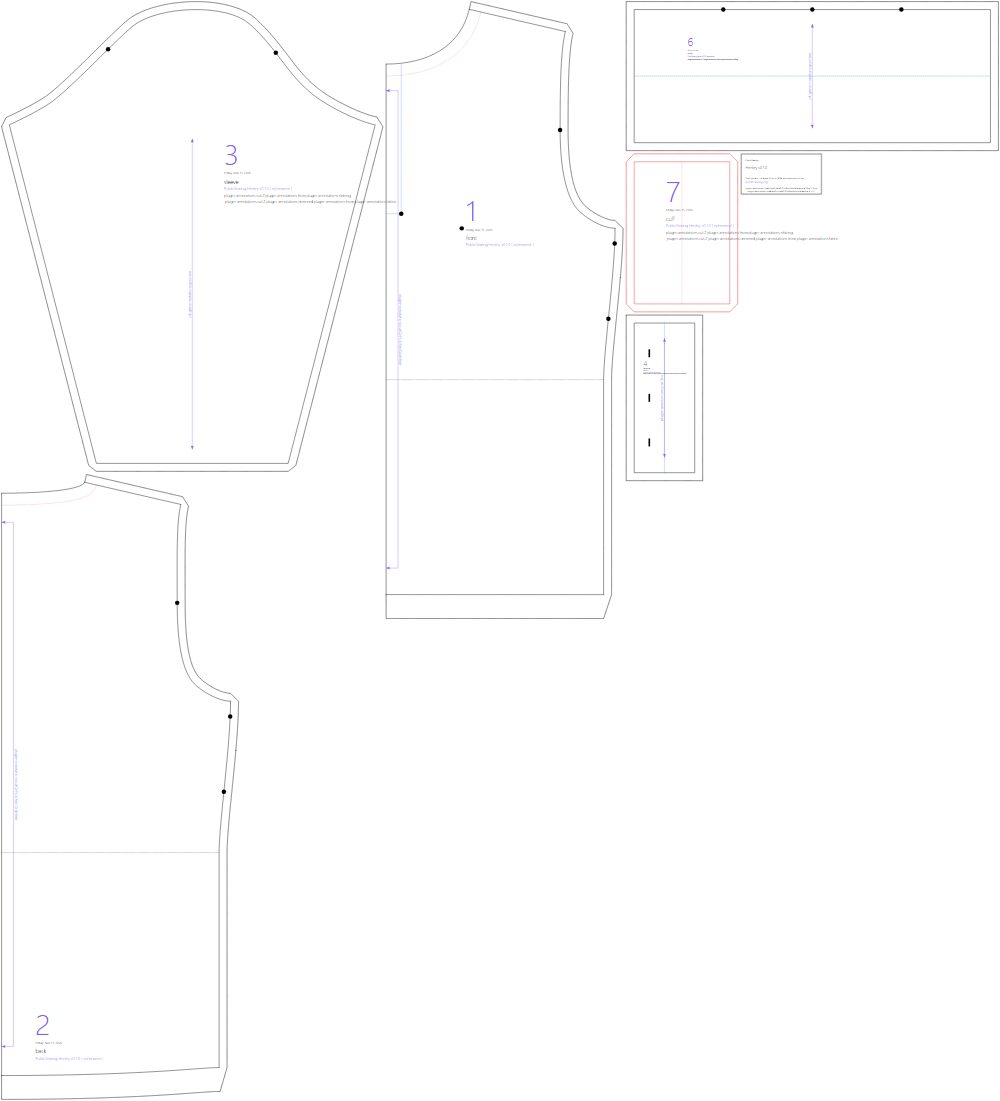
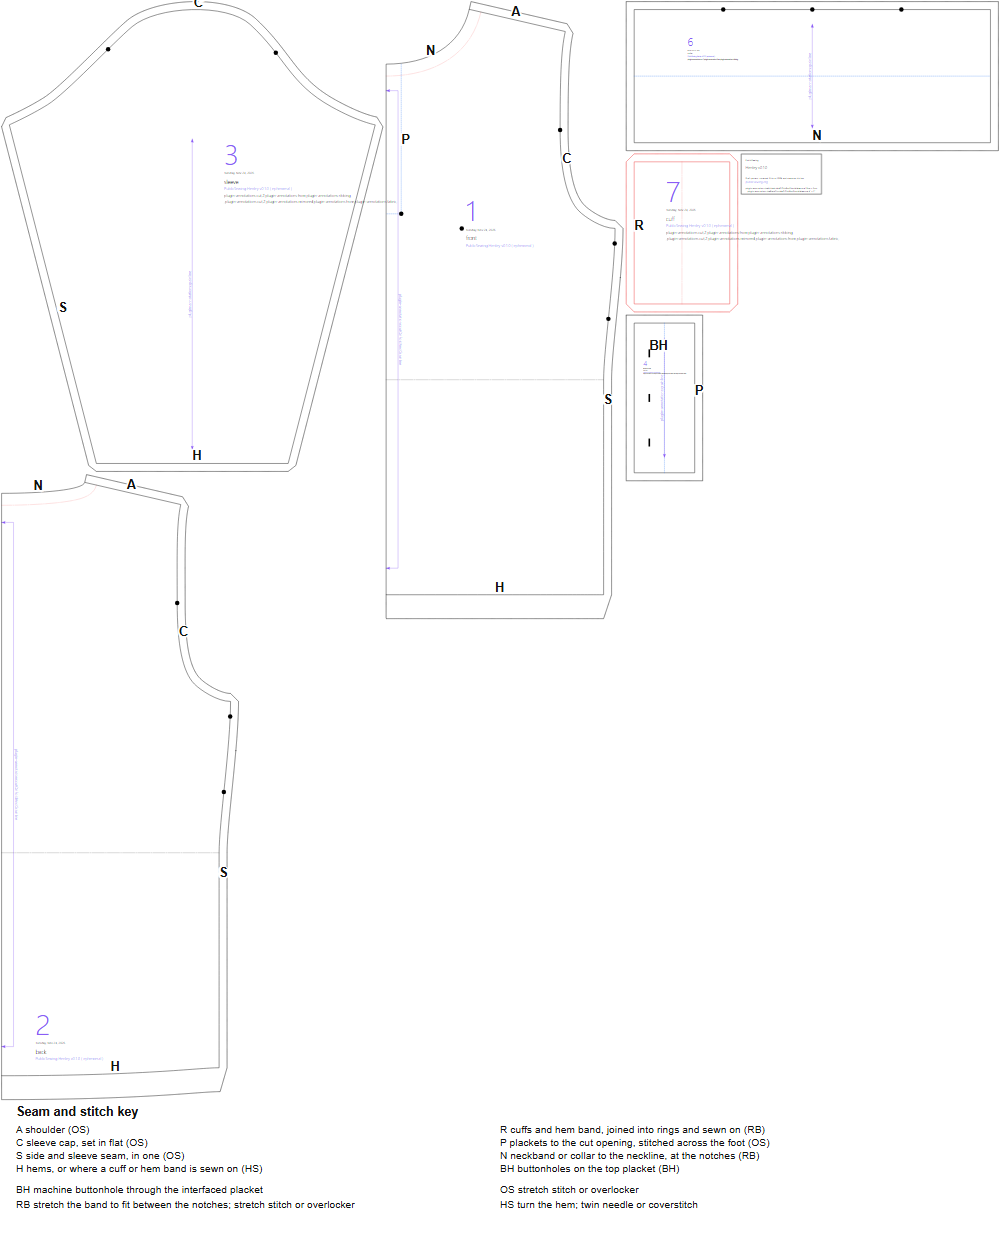
Map the Bibi knits; give Bibi fronts and backs a seam outline
Turtleneck, henley and cardigan get pattern maps (shoulders, flat-set
sleeves, side seams in one, ribs, neckband or collar, plackets and front
band, buttonholes) and numbered construction steps.

Bibi draws its front and back as separate edge paths with no `seam`, so
the exporters skipped them: the knits' DXF and Seamly downloads had only
the sleeve and ribs. A new `outline` operation (closeOutline, lib/flat.mjs)
joins the edges into one seam and hides them; the three specs run it last
on their front and back.

diff --git a/designs/henley/BRIEF.md b/designs/henley/BRIEF.md
@@ -66,13 +66,8 @@ graded and copyrighted; none made to measure or openly licensed. None was used.
 ## Construction
 
 1. Interface the plackets' buttonhole halves. Fold each placket in half lengthwise and press.
-2. Cut the front down the marked placket box (centre front) and across its foot, snipping into the
-   corners.
-3. Sew a placket to each side of the opening, right sides together, and turn them to the inside so
-   they meet at centre front, the buttonhole one on top. Stitch across the foot through both
-   plackets and the front's triangle.
-4. Sew the shoulder seams. Fold the band or collar in half lengthwise and sew it to the neck edge,
-   matching the quarter notches to the centre back and shoulders, stretching it to fit; turn in its
-   ends at the placket edges.
-5. Set in the sleeves flat, then sew each side seam and sleeve seam in one.
-6. Hem, or sew on the cuffs and hem band. Make the buttonholes and sew on the buttons.
+2. Cut the front down the marked placket box (centre front) and across its foot, snipping into the corners.
+3. Sew a placket to each side of the opening at P, right sides together, and turn them to the inside so they meet at centre front, the buttonhole one on top. Stitch across the foot through both plackets and the front's triangle.
+4. Sew the A shoulder seams. Fold the band or collar in half lengthwise and sew it to the neck edge at N, matching the quarter notches to the centre back and shoulders, stretching it to fit; turn in its ends at the placket edges.
+5. Set in the sleeves flat at C, then sew each S side seam and sleeve seam in one.
+6. Finish the H hems, or join the R cuffs and hem band into rings and sew them on. Make the BH buttonholes and sew on the buttons.

diff --git a/designs/cardigan/BRIEF.md b/designs/cardigan/BRIEF.md
@@ -56,11 +56,8 @@ measure or openly licensed. None was used.
 
 ## Construction
 
-1. Sew the shoulder seams.
-2. Set in the sleeves flat, then sew each side seam and sleeve seam in one.
-3. Fold the hem band in half lengthwise and sew it to the hem, its ends at the front edges. Sew on
-   the cuffs as rings.
-4. Interface the buttonhole end of the front band. Fold it in half lengthwise and sew it on from the
-   foot of one front, up it, round the neck and down the other, matching the notches: flat along the
-   fronts, stretched between the V points.
-5. Make the buttonholes and sew on the buttons.
+1. Sew the A shoulder seams.
+2. Set in the sleeves flat at C, then sew each S side seam and sleeve seam in one.
+3. Fold the hem band in half lengthwise and sew it to the hem at R, its ends at the front edges. Join the cuffs into rings and sew them on at R. Without ribbing, finish the H hems.
+4. Interface the buttonhole end of the front band. Fold it in half lengthwise and sew it on at B from the foot of one front, up it, round the neck and down the other, matching the notches: flat along the fronts, stretched between the V points.
+5. Make the BH buttonholes and sew on the buttons.

diff --git a/designs/turtleneck/BRIEF.md b/designs/turtleneck/BRIEF.md
@@ -56,10 +56,8 @@ measure or openly licensed. None was used.
 
 ## Construction
 
-1. Sew the shoulder seams.
-2. Set in the sleeves flat, then sew each side seam and sleeve seam in one.
-3. Join the collar's short ends into a ring and fold it in half lengthwise, wrong sides together.
-4. Pin it to the neck edge at the quarter notches (centre back, the shoulders, centre front),
-   stretch the collar to fit between them, and sew with a stretch stitch or overlocker.
-5. Hem the sleeves and body with a twin needle or coverstitch, or sew on the cuffs and hem band
-   as the collar.
+1. Sew the A shoulder seams.
+2. Set in the sleeves flat at C, then sew each S side seam and sleeve seam in one.
+3. Join the collar's K short ends into a ring and fold it in half lengthwise, wrong sides together.
+4. Pin it to the neck edge at the quarter notches (centre back, the shoulders, centre front), stretch the collar to fit between them, and sew the N seam with a stretch stitch or overlocker.
+5. Finish the H hems of the sleeves and body with a twin needle or coverstitch, or join the R cuffs and hem band into rings and sew them on as the collar.
